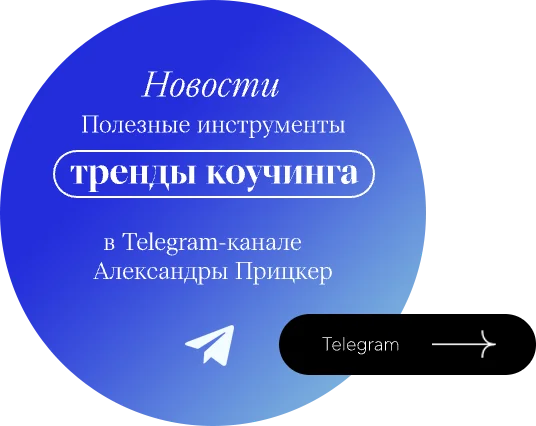
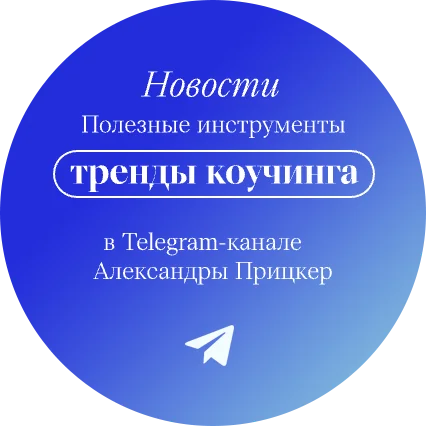
add: mobile woman block

diff --git a/styles/style.css b/styles/style.css
@@ -32,6 +32,7 @@
 html, body {
     width: 100%;
     height: 100%;
+    font-size: 18px !important;
 }
 
 body {
@@ -41,7 +42,6 @@ body {
     padding: 0;
     overflow-x: hidden;
     position: relative;
-    font-size: 18px;
 }
 
 .header {
@@ -542,6 +542,7 @@ body {
     position: relative;
     padding-bottom: 140px;
 }
+
 .provider__play {
     position: absolute;
     top: 30%;
@@ -585,9 +586,13 @@ body {
     width: 100%;
 }
 
-.aboutCEO__text {
+.aboutCEO__mb-bg {
+    display: none;
+}
+
+.aboutCEO__container {
     position: absolute;
-    top: 241px;
+    top: 20%;
     left: 12%;
 }
 
@@ -607,7 +612,18 @@ body {
     width: 474px;
 }
 
-.aboutCEO__telgram {
+.aboutCEO__logo {
+    display: none;
+    width: 100%;
+    margin-top: 75px;
+}
+
+.aboutCEO__logo img {
+    margin-left: 10%;
+    width: 200px;
+}
+
+.aboutCEO__telegram {
     position: absolute;
     bottom: 0;
     left: 40%;
@@ -616,9 +632,56 @@ body {
     z-index: 1;
 }
 
+.aboutCEO__tglink {
+    text-decoration: none;
+}
+
+.aboutCEO__tglink-btn {
+    position: absolute;
+    bottom: 11%;
+    right: -100px;
+}
+
+.aboutCEO__tglink-btn .header__black-button {
+    display: inline-block;
+    font-size: 19px;
+    font-weight: 300;
+    line-height: 23px;
+    min-height: 61px;
+    min-width: 256px;
+    border-radius: 30.5px;
+}
+
+@keyframes shake {
+    0% {
+        transform: translateX(0);
+    }
+    20% {
+        transform: translateX(10px);
+    }
+    40% {
+        transform: translateX(-10px);
+    }
+    60% {
+        transform: translateX(5px);
+    }
+    80% {
+        transform: translateX(-5px);
+    }
+    100% {
+        transform: translateX(0);
+    }
+}
+
+.aboutCEO__tglink-btn .header__black-button:hover {
+    background-color: rgb(15, 15, 15);
+    opacity: 1;
+    animation: shake 1s ease-in-out;
+}
+
 .aboutCEO__line {
     position: absolute;
-    bottom: 150px;
+    bottom: 76px;
     right: 0;
     width: 50%;
     height: 2px;
@@ -630,7 +693,7 @@ body {
 .provider__couching {
     display: flex;
     height: 1025px;
-    margin-top: 30px;
+    margin-top: 142px;
     position: relative;
 }
 

diff --git a/index.html b/index.html
@@ -182,13 +182,24 @@
                     <img src="./src/icons/play_icon.webp" alt="">
                 </div>
             </div>
-            <img src="src/images/bgimages/bg_woman.webp" alt="CEO video">
-            <div class="aboutCEO__text">
-                <div class="aboutCEO__meet">Знакомьтесь с нашем СЕО</div>
-                <div class="aboutCEO__name">Александра Прицкер</div>
+            <img class="aboutCEO__pc-bg" src="src/images/bgimages/bg_woman.webp" alt="CEO video">
+            <img class="aboutCEO__mb-bg" src="src/images/bgimages/bgCEOmobile.webp" alt="CEO video">
+            <div class="aboutCEO__container">
+                <div class="aboutCEO__logo">
+                    <img src="src/images/logo.webp" alt="Логотип">
+                </div>
+                <div class="aboutCEO__text">
+                    <div class="aboutCEO__meet">Знакомьтесь с нашим СЕО</div>
+                    <div class="aboutCEO__name">Александра Прицкер</div>
+                </div>
             </div>
-            <div class="aboutCEO__telgram">
-                <a href="t.me"><img src="./src/images/telegram_block.webp" alt="Ссылка на телеграмм"></a>
+            <div class="aboutCEO__telegram">
+                <img src="./src/images/telegram_block.webp" alt="Ссылка на телеграмм" />
+                <div class="aboutCEO__tglink-btn">
+                    <a href="https://telegram.org/" class="aboutCEO__tglink">
+                        <button class="header__black-button header__black-button--arrow2">Telegram</button>
+                    </a>
+                </div>
             </div>
             <div class="aboutCEO__line"></div>
         </div>

diff --git a/styles/adapt.css b/styles/adapt.css
@@ -416,6 +416,88 @@
         margin-top: 15px;
         margin: 0;
     }
+    .provider__aboutCEO {
+        margin-top: 75px;
+        padding-bottom: 400px;
+    }
+    .aboutCEO__pc-bg {
+        display: none;
+    }
+    .aboutCEO__mb-bg {
+        display: block;
+    }
+    .aboutCEO__logo {
+        display: block;
+    }
+    .aboutCEO__container {
+        top: 0;
+        left: 25px;
+    }
+    .aboutCEO__text {
+        display: flex;
+        flex-direction: column-reverse;
+        margin: auto;
+    }
+
+    .aboutCEO__name {
+        font-size: 48px;
+        line-height: 56px;
+        width: 80%;
+        font-weight: bold;
+        margin: 30px 10%;
+    }
+
+    .aboutCEO__meet {
+        font-size: 24px;
+        line-height: 34px;
+        width: 43%;
+        margin: 0 10%;
+    }
+    
+    .provider__play {
+        top: 40%;
+        left: 45%;
+    }
+
+    .provider__play-icon  img{
+        width: 40px;
+        height: 40px;
+    }
+
+    .provider__play-icon::after {
+        width: 400px;
+        height: 400px;
+    }
+    
+    .provider__play-icon::before {
+        width: 650px;
+        height: 650px;
+    }
+
+    .provider__play:hover .provider__play-icon::after {
+        width: 400px;;
+        height: 400px;;
+        border: 1px solid white;
+    }
+    .provider__play:hover .provider__play-icon::before {
+        width: 650px;
+        height: 650px;
+        border: 1px solid white;
+    }
+
+    .aboutCEO__line {
+        display: none;
+    }
+
+    .aboutCEO__telegram {
+        left: 0;
+        bottom: 0;
+        width: 90%;
+    }
+    .aboutCEO__tglink-btn {
+        bottom: 100px;
+        right: 0;
+    }
 }
 
 /* Portrait tablets and small desktops */
